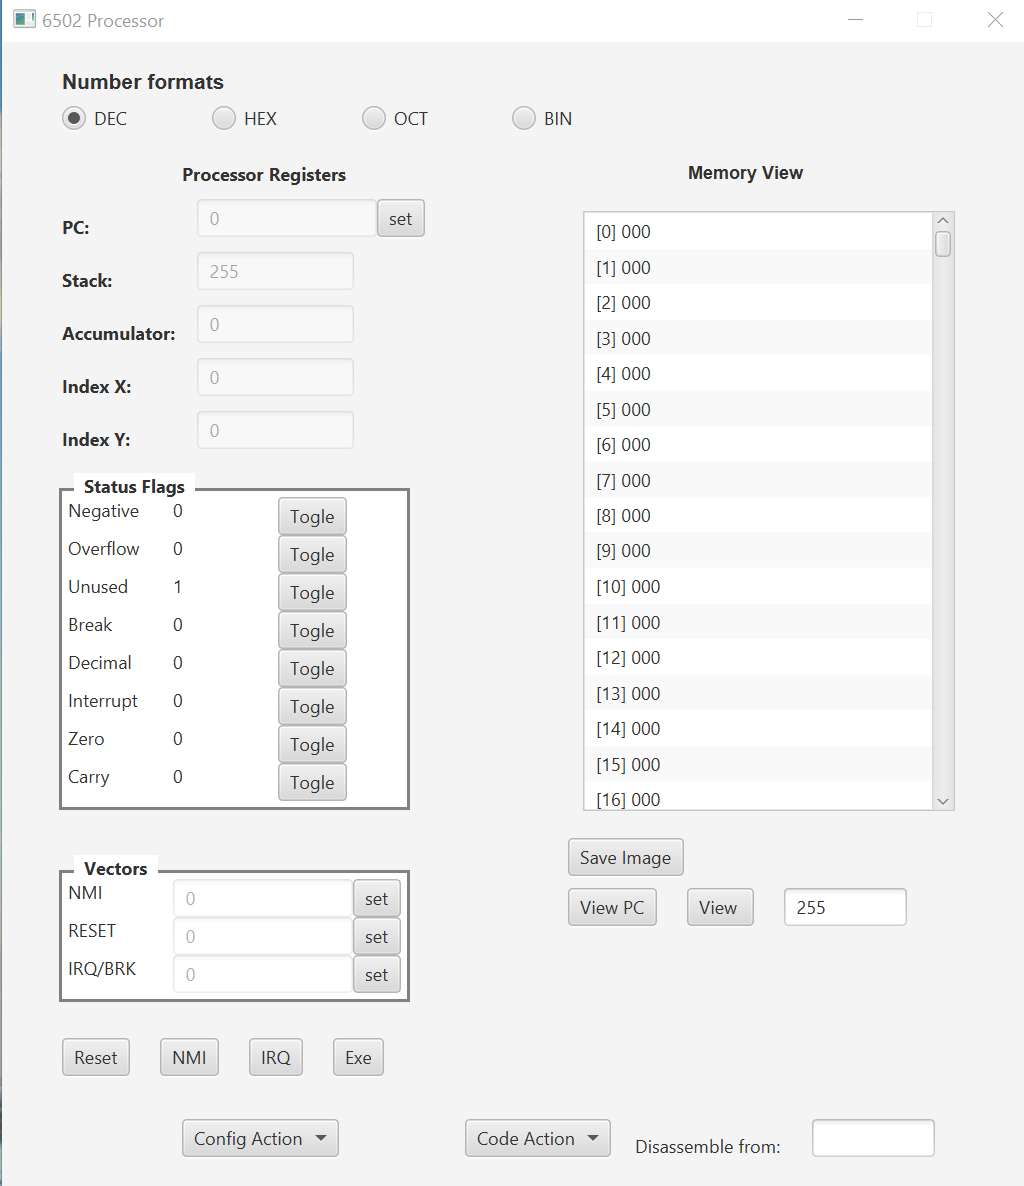
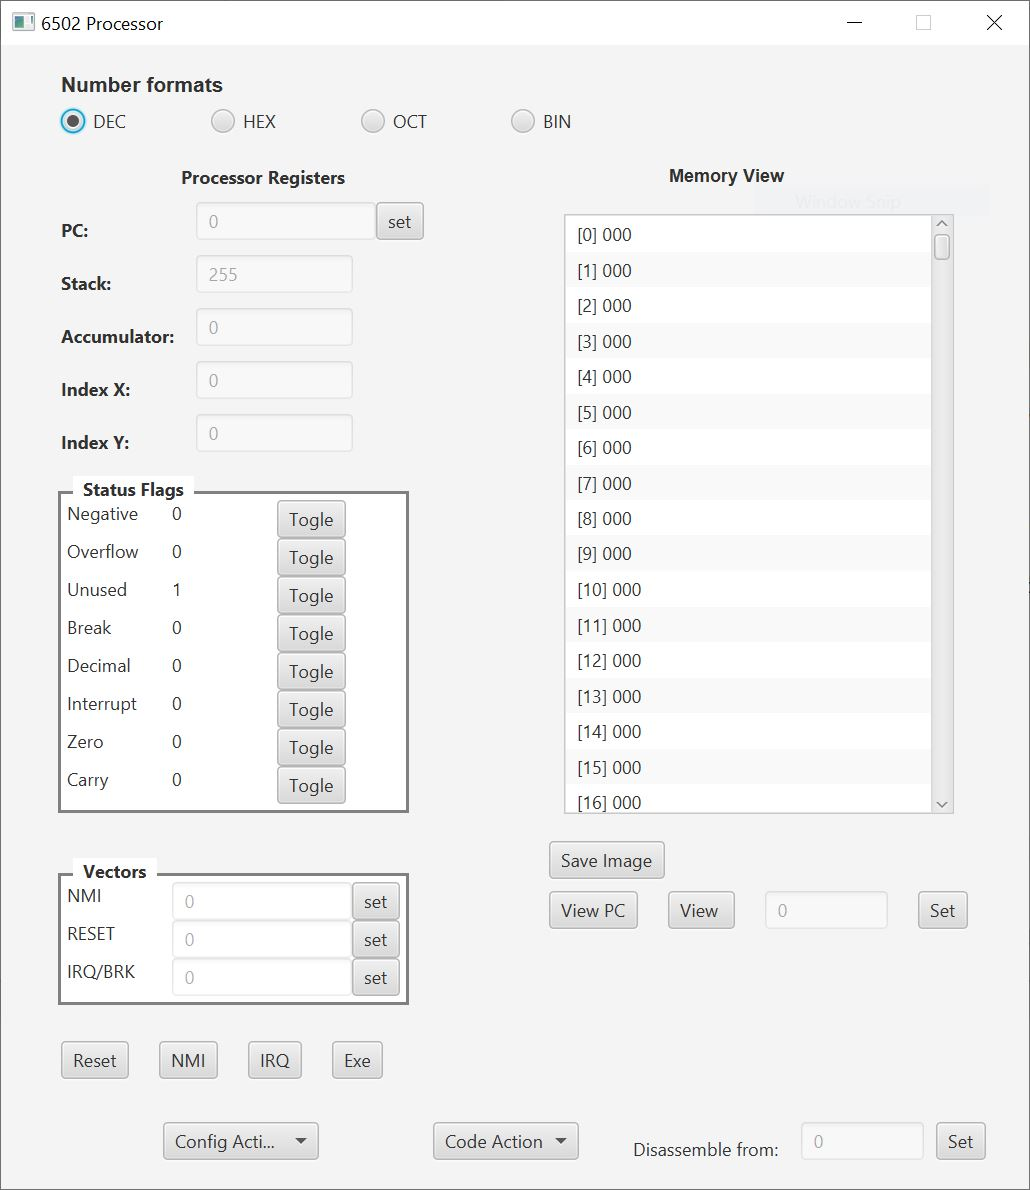
README.md updated.

diff --git a/README.md b/README.md
@@ -54,7 +54,9 @@ Clicking the set button for the PC sets th evalue of the programe counter to the
 ### Status Flags <img width="16" alt="paleyellow" src="images/paleorangedot.jpg">
 
 Displays the curent state of the staus register flags.
+
 Each flag has a toggle button which toggles the flag between it 2 possible states.
+
 This enables for example a loop to be terminated during debugging by updating the approprite flags.
 
 ### Vectors <img width="16" alt="paleyellow" src="images/palereddot.jpg">
@@ -75,18 +77,23 @@ The **Reset**, **NMI** and **IRQ** buttons perform the associated interrupt acti
 ### Memory View <img width="16" alt="palegreen" src="images/palegreendot.jpg">
 
 Displays the contents of all 65536 memory locations with disasembly of contents if valid.
-The **View** button scrolls the view to the location entered.
+
+**Save Image** button saves the current contents of memory to an image file.
+
 The **View PC** button scrolls the view to the current PC location.
-**Save Image** saves the current contents of memory to an image file.
+
+The **View** button scrolls the view to the location entered. The loaction is displaye din the associated field in the format selected (DEC, HEX, OCT or BIN) and set by clicking the set button which pops up an input form.
 
 ### Actions Area <img width="16" alt="palepurple" src="images/palepurpledot.jpg">
 
-**Config Actions**
+**Config Actions** menu button.
 * Load - Load a confoguration from a save file
 * Save - save current configuration to a save file
 
-**Code Actions**
+**Code Actions** menu button.
 * Open Editor - opens the code editor
 * Assemble from file - assembles a file without loading into the editor.
 * Disassemble from location - disassembles instruction from the given location.
 
+***Disassemble Location***
+Displayed in the format selected (DEC, HEX, OCT or BIN) and set by clicking the set button which pops up an input form.
